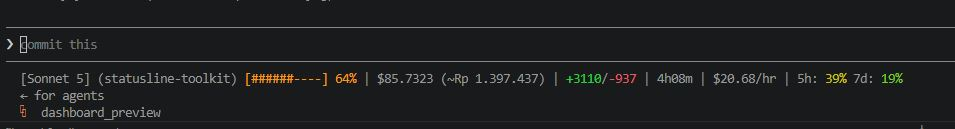
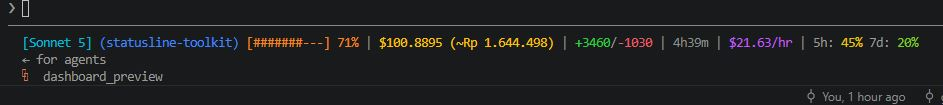
update Dashboard

diff --git a/test_statusline_toolkit.py b/test_statusline_toolkit.py
@@ -670,6 +670,47 @@ class DashboardBarRowsTests(unittest.TestCase):
         self.assertIn("1 session", html_out)
         self.assertNotIn("1 sessions", html_out)
 
+    def test_highlights_matching_row(self):
+        html_out = st._dashboard_bar_rows(
+            {"2026-07-06": (1.0, 1), "2026-07-07": (2.0, 1)}, sort_by_value=False, highlight="2026-07-07",
+        )
+        self.assertIn('bar-row-today', html_out)
+        self.assertIn('today-badge">Today</span>', html_out)
+        # only the matching row is marked
+        self.assertEqual(html_out.count("bar-row-today"), 1)
+
+    def test_no_highlight_when_highlight_is_none(self):
+        html_out = st._dashboard_bar_rows({"2026-07-07": (1.0, 1)}, sort_by_value=False, highlight=None)
+        self.assertNotIn("bar-row-today", html_out)
+        self.assertNotIn("today-badge", html_out)
+
+    def test_no_highlight_when_no_row_matches(self):
+        html_out = st._dashboard_bar_rows({"2026-07-06": (1.0, 1)}, sort_by_value=False, highlight="2026-07-07")
+        self.assertNotIn("bar-row-today", html_out)
+
+
+class ExtremeDayLabelTests(unittest.TestCase):
+    def test_returns_none_for_empty_input(self):
+        self.assertIsNone(st._extreme_day_label({}, pick_max=True))
+
+    def test_picks_highest_cost_day(self):
+        by_date = {"2026-07-05": (1.2, 1), "2026-07-06": (4.87, 1)}
+        label = st._extreme_day_label(by_date, pick_max=True)
+        self.assertIn("2026-07-06", label)
+        self.assertIn(st.format_usd(4.87), label)
+
+    def test_picks_lowest_cost_day(self):
+        by_date = {"2026-07-05": (1.2, 1), "2026-07-06": (4.87, 1)}
+        label = st._extreme_day_label(by_date, pick_max=False)
+        self.assertIn("2026-07-05", label)
+        self.assertIn(st.format_usd(1.2), label)
+
+    def test_escapes_unsafe_date_label(self):
+        by_date = {"<script>": (1.0, 1)}
+        label = st._extreme_day_label(by_date, pick_max=True)
+        self.assertNotIn("<script>", label)
+        self.assertIn("&lt;script&gt;", label)
+
 
 class BuildDashboardHtmlTests(unittest.TestCase):
     def test_includes_summary_cards(self):
@@ -701,6 +742,32 @@ class BuildDashboardHtmlTests(unittest.TestCase):
         page = st.build_dashboard_html({})
         self.assertIn("Generated", page)
         self.assertIn(str(datetime.date.today().year), page)
+
+    def test_includes_priciest_and_cheapest_day_cards(self):
+        history = {
+            "s1": {"date": "2026-07-05", "cost_usd": 1.2},
+            "s2": {"date": "2026-07-06", "cost_usd": 4.87},
+        }
+        page = st.build_dashboard_html(history)
+        self.assertIn("Priciest day", page)
+        self.assertIn("Cheapest day", page)
+        self.assertIn("2026-07-06", page)  # priciest
+        self.assertIn("2026-07-05", page)  # cheapest
+
+    def test_omits_extreme_day_cards_when_history_empty(self):
+        page = st.build_dashboard_html({})
+        self.assertNotIn("Priciest day", page)
+        self.assertNotIn("Cheapest day", page)
+
+    def test_highlights_todays_bar_in_cost_by_day(self):
+        today = datetime.date.today().isoformat()
+        history = {
+            "s1": {"date": "2026-01-01", "cost_usd": 1.0},
+            "s2": {"date": today, "cost_usd": 2.0},
+        }
+        page = st.build_dashboard_html(history)
+        self.assertIn("bar-row-today", page)
+        self.assertIn("today-badge", page)
 
 
 class RecordSessionTests(unittest.TestCase):

diff --git a/statusline_toolkit.py b/statusline_toolkit.py
@@ -532,9 +532,17 @@ h1 { font-size: 1.5rem; margin-bottom: 0.25rem; }
 }
 .card .label { font-size: 0.8rem; opacity: 0.7; }
 .card .value { font-size: 1.6rem; font-weight: 600; }
+.card .sub { font-size: 0.75rem; opacity: 0.6; margin-top: 0.2rem; }
 section { margin-bottom: 2.5rem; }
 h2 { font-size: 1.05rem; margin-bottom: 0.75rem; }
-.bar-row { display: flex; align-items: center; gap: 0.75rem; margin: 0.4rem 0; }
+.bar-row {
+    display: flex; align-items: center; gap: 0.75rem; margin: 0.4rem 0;
+    border-radius: 6px; padding: 0.15rem 0.3rem;
+}
+.bar-row-today { background: rgba(99, 99, 241, 0.12); }
+@media (prefers-color-scheme: dark) {
+    .bar-row-today { background: rgba(129, 140, 248, 0.2); }
+}
 .bar-label {
     width: 140px; flex-shrink: 0; font-size: 0.85rem; text-align: right;
     overflow: hidden; text-overflow: ellipsis; white-space: nowrap;
@@ -542,16 +550,21 @@ h2 { font-size: 1.05rem; margin-bottom: 0.75rem; }
 .bar-track { flex: 1; background: #ececef; border-radius: 4px; height: 18px; overflow: hidden; }
 .bar-fill { background: #6366f1; height: 100%; border-radius: 4px; }
 .bar-value { width: 190px; flex-shrink: 0; font-size: 0.85rem; opacity: 0.85; }
+.today-badge {
+    font-size: 0.7rem; font-weight: 600; background: #6366f1; color: #fff;
+    padding: 0.05rem 0.4rem; border-radius: 3px; margin-left: 0.5rem;
+}
 .empty { opacity: 0.6; font-style: italic; }
 .generated { opacity: 0.5; font-size: 0.8rem; margin-top: 2rem; }
 """.strip()
 
 
-def _dashboard_bar_rows(groups: dict[str, tuple[float, int]], sort_by_value: bool) -> str:
+def _dashboard_bar_rows(groups: dict[str, tuple[float, int]], sort_by_value: bool, highlight: str | None = None) -> str:
     """
     Render one HTML bar-chart row per (label, (cost, count)) — the session count sits next to
     the dollar amount so a tall bar's meaning is clear (one expensive session vs. many cheap ones).
     sort_by_value=False sorts alphabetically (for dates); True sorts by cost, highest first.
+    `highlight`, if given, visually marks the row whose label matches it (used for "today").
     """
     if not groups:
         return '<p class="empty">No data yet.</p>'
@@ -563,14 +576,26 @@ def _dashboard_bar_rows(groups: dict[str, tuple[float, int]], sort_by_value: boo
     for label, (cost, count) in items:
         pct = (cost / max_cost) * 100
         safe_label = html.escape(str(label))
+        is_highlighted = highlight is not None and label == highlight
+        row_class = "bar-row bar-row-today" if is_highlighted else "bar-row"
+        badge = '<span class="today-badge">Today</span>' if is_highlighted else ""
         rows.append(
-            '<div class="bar-row">'
+            f'<div class="{row_class}">'
             f'<div class="bar-label" title="{safe_label}">{safe_label}</div>'
             f'<div class="bar-track"><div class="bar-fill" style="width:{pct:.1f}%"></div></div>'
-            f'<div class="bar-value">{html.escape(format_usd(cost))} &middot; {count} session{plural_suffix(count)}</div>'
+            f'<div class="bar-value">{html.escape(format_usd(cost))} &middot; {count} session{plural_suffix(count)}{badge}</div>'
             "</div>"
         )
     return "\n".join(rows)
+
+
+def _extreme_day_label(by_date: dict[str, tuple[float, int]], pick_max: bool) -> str | None:
+    """'DATE ($X.XXXX)' for the highest- or lowest-cost day in by_date, or None if there's no data."""
+    if not by_date:
+        return None
+    selector = max if pick_max else min
+    date, (cost, _count) = selector(by_date.items(), key=lambda kv: kv[1][0])
+    return f"{html.escape(date)} ({html.escape(format_usd(cost))})"
 
 
 def build_dashboard_html(history: dict[str, Any], generated_at: datetime.datetime | None = None) -> str:
@@ -585,6 +610,16 @@ def build_dashboard_html(history: dict[str, Any], generated_at: datetime.datetim
     avg_cost = total_cost / session_count if session_count else 0.0
     dates = sorted(record["date"] for record in history.values() if record.get("date"))
     date_range = f"{dates[0]} to {dates[-1]}" if dates else "no sessions yet"
+
+    by_date = group_costs(history, "date")
+    today = datetime.date.today().isoformat()
+    priciest_day = _extreme_day_label(by_date, pick_max=True)
+    cheapest_day = _extreme_day_label(by_date, pick_max=False)
+    extreme_day_cards = ""
+    if priciest_day is not None and cheapest_day is not None:
+        extreme_day_cards = f"""
+  <div class="card"><div class="label">Priciest day</div><div class="value">{priciest_day}</div></div>
+  <div class="card"><div class="label">Cheapest day</div><div class="value">{cheapest_day}</div></div>"""
 
     return f"""<!doctype html>
 <html lang="en">
@@ -601,11 +636,11 @@ def build_dashboard_html(history: dict[str, Any], generated_at: datetime.datetim
 <div class="cards">
   <div class="card"><div class="label">Total spent</div><div class="value">{html.escape(format_usd(total_cost))}</div></div>
   <div class="card"><div class="label">Sessions</div><div class="value">{session_count}</div></div>
-  <div class="card"><div class="label">Avg / session</div><div class="value">{html.escape(format_usd(avg_cost))}</div></div>
+  <div class="card"><div class="label">Avg / session</div><div class="value">{html.escape(format_usd(avg_cost))}</div></div>{extreme_day_cards}
 </div>
 <section>
   <h2>Cost by day</h2>
-  {_dashboard_bar_rows(group_costs(history, "date"), sort_by_value=False)}
+  {_dashboard_bar_rows(by_date, sort_by_value=False, highlight=today)}
 </section>
 <section>
   <h2>Cost by project</h2>

diff --git a/README.md b/README.md
@@ -250,6 +250,13 @@ python statusline_toolkit.py --dashboard --open       # visual HTML report
 cards plus cost-by-day/project/model bar charts, no JS framework, no CDN,
 light/dark aware — and only opens a browser if you pass `--open`.
 
+A couple of details that make the dashboard easier to scan at a glance:
+
+- Two extra summary cards, **Priciest day** and **Cheapest day**, so you
+  can spot your worst/best day without reading the whole chart.
+- Today's row in the "Cost by day" chart is visually highlighted with a
+  **Today** badge, so you don't have to hunt for the most recent bar.
+
 Everything here is opt-in and local: nothing is tracked or rendered unless
 you ask, and `usage_history.json` is plain JSON you can inspect or delete
 anytime.

diff --git a/CHANGELOG.md b/CHANGELOG.md
@@ -12,6 +12,9 @@ follows [Keep a Changelog](https://keepachangelog.com/).
   (`red`, `blue`, `orange`, ...) or a `#RRGGBB` hex code; falls back to the
   segment's default color if a value is invalid, rather than erroring or
   rendering nothing.
+- `--dashboard`: two new summary cards, **Priciest day** and **Cheapest
+  day**, and today's row in the "Cost by day" chart is now visually
+  highlighted with a **Today** badge.
 
 ## [1.0.0] - 2026-07-07
 